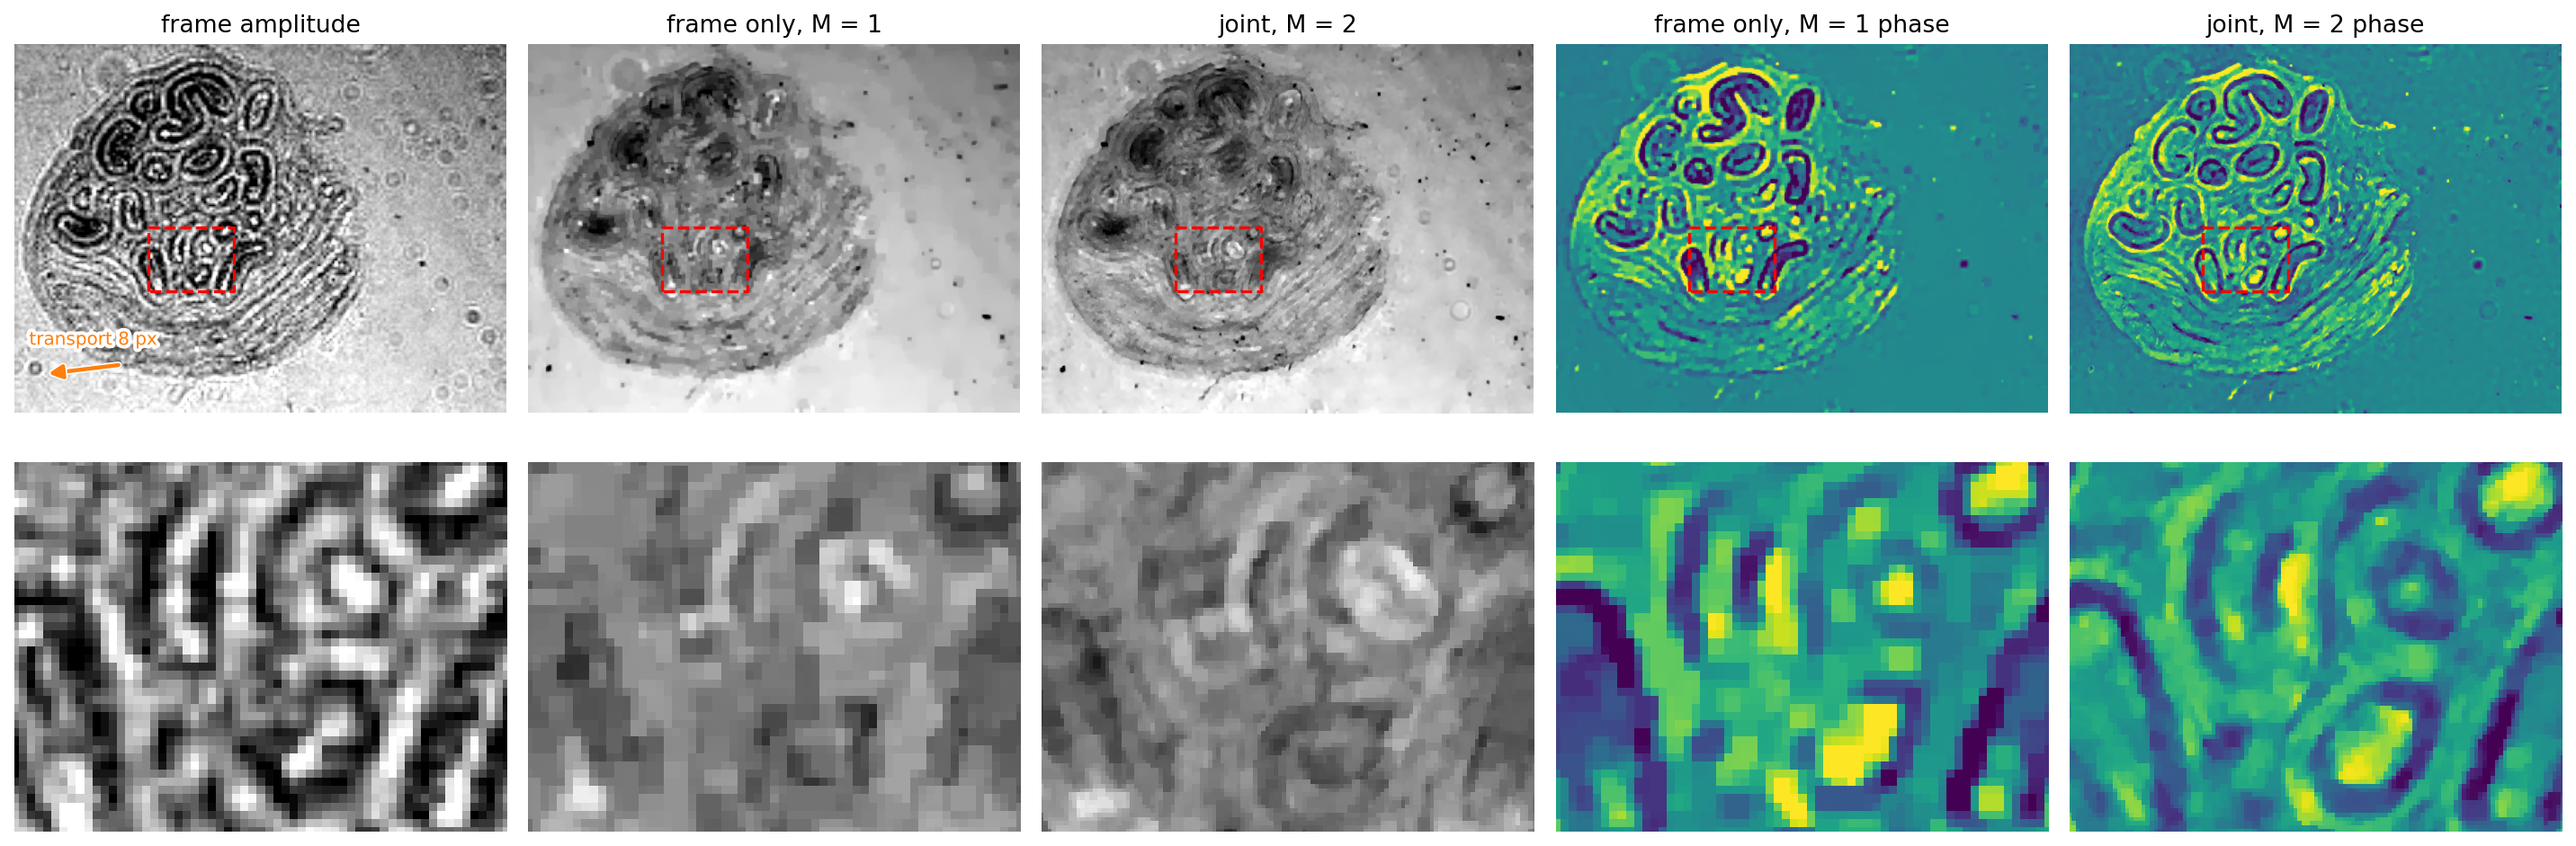
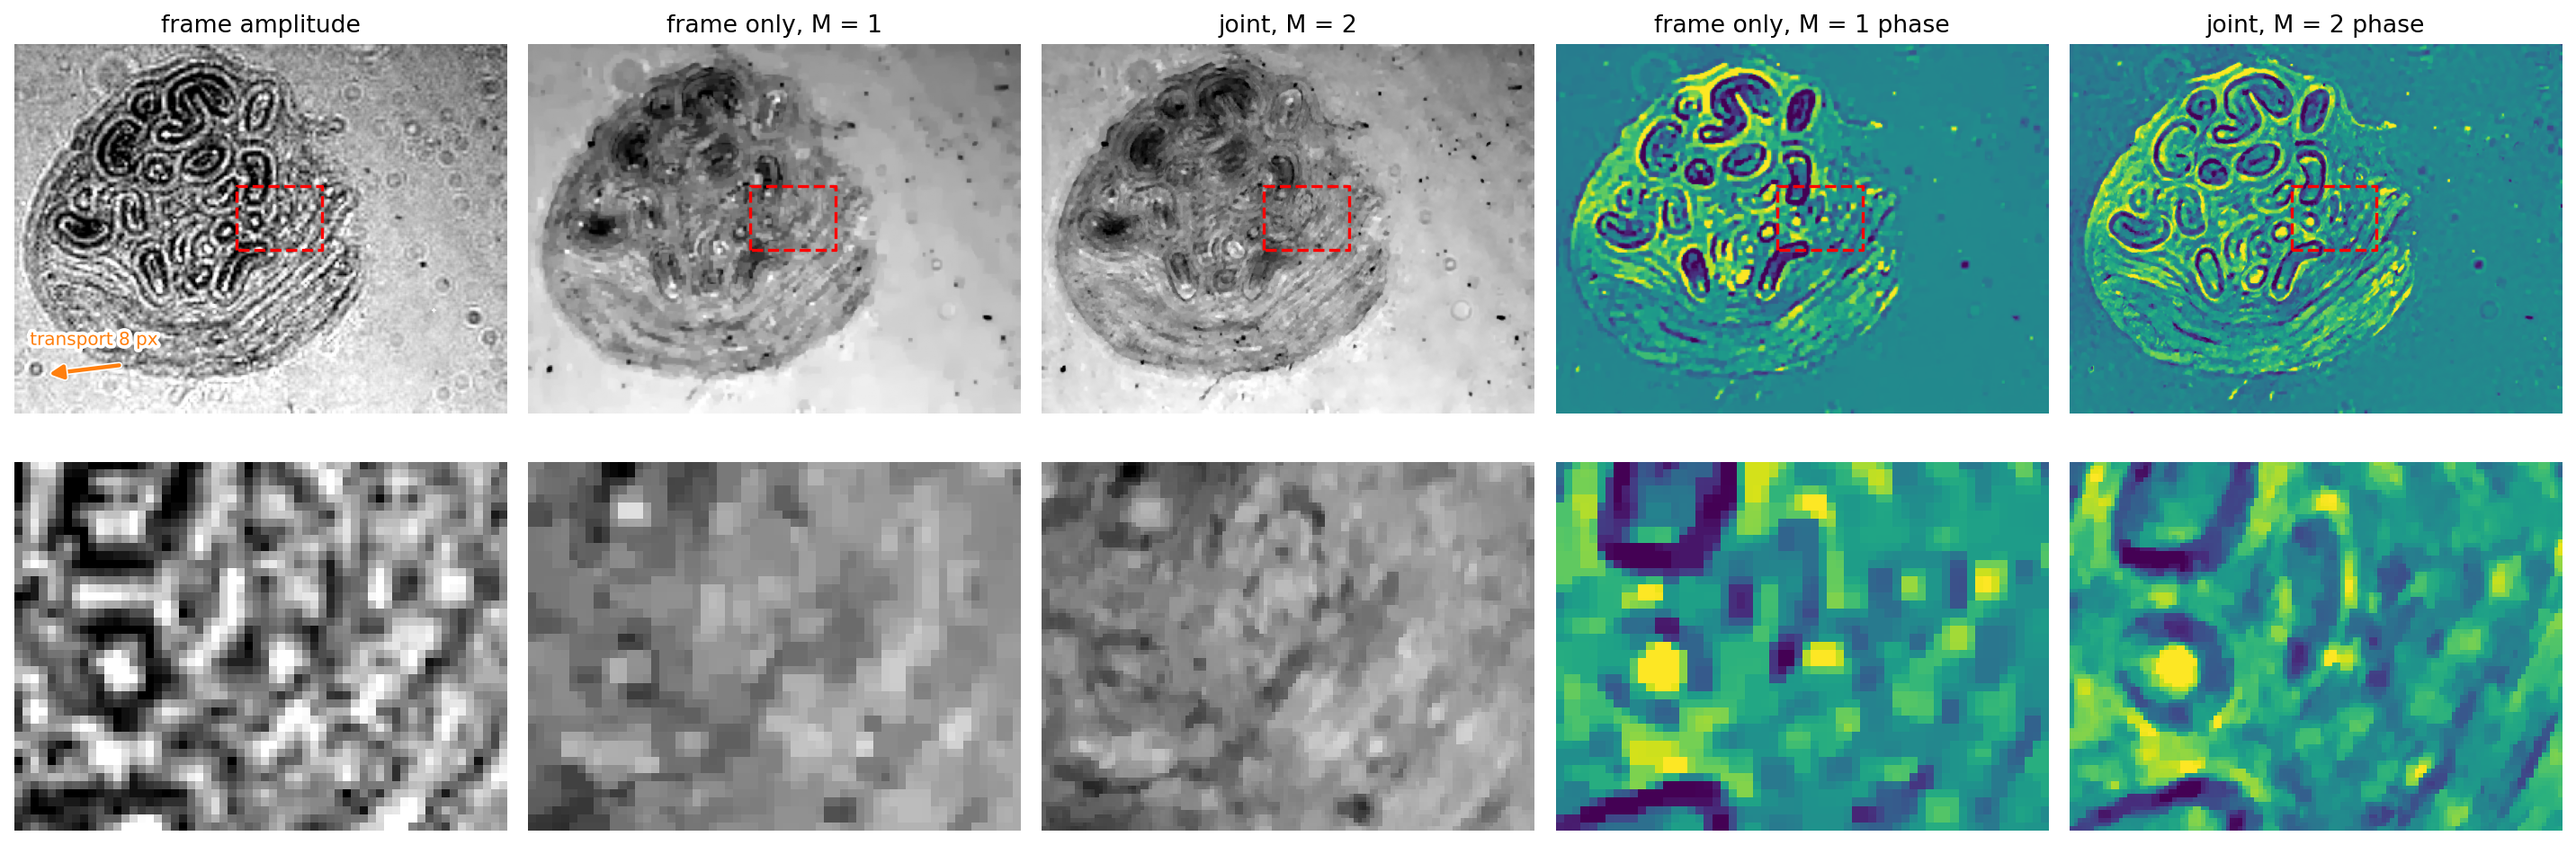
Refine event-driven figure zooms and handle small sensors
Align plot bounds across sampling scales, publish the event-driven zoom figures and cover small-image output with regression checks. Describe the processed-IWE display score precisely.

diff --git a/src/neurosr/visualize.py b/src/neurosr/visualize.py
@@ -116,24 +116,31 @@ def show_iwe_panels(solver, roi_zoom):
     return fig
 
 
-def auto_roi(img_lr, hw, hh, band=(0.25, 0.5), margin=6):
-    """Window carrying the most energy in the top octave below the sensor Nyquist, as
-    [[x0, x1], [y1, y0]] in native pixels, and its centre.  The zoom is placed by this rule,
-    not by hand."""
-    X = np.fft.fft2(img_lr - img_lr.mean())
-    fr = np.maximum(np.abs(np.fft.fftfreq(img_lr.shape[0]))[:, None], np.abs(np.fft.fftfreq(img_lr.shape[1]))[None, :])
-    e = np.abs(np.fft.ifft2(X * ((fr > band[0]) & (fr <= band[1])))) ** 2
+def auto_roi(iwe, M, width=60, margin=1):
+    """Zoom window selected by high-frequency energy, as [[x0, x1], [y1, y0]] in
+    native pixels: width native pixels wide, with the aspect ratio of the sensor.
+
+    iwe is the signed image of warped events on the grid M times finer than the sensor.  Its
+    magnitude is compressed by a square root, so that the density of fine edges counts and not
+    the contrast of a few strong ones.  The energy above the sensor Nyquist frequency (the top
+    octave of the grid at M = 1) is then summed over every window of whole native pixels, and
+    the window with the largest sum is taken.  Width and margin shrink to fit smaller sensors.
+    This score selects a display region from the processed IWE."""
+    compressed = np.sign(iwe) * np.sqrt(np.abs(iwe))
+    spectrum = np.fft.fft2(compressed - compressed.mean())
+    fr = np.maximum(np.abs(np.fft.fftfreq(iwe.shape[0]))[:, None], np.abs(np.fft.fftfreq(iwe.shape[1]))[None, :])
+    e = np.abs(np.fft.ifft2(spectrum * (fr > 0.5 / max(M, 2)))) ** 2
+    e = e.reshape(e.shape[0] // M, M, e.shape[1] // M, M).sum((1, 3))
+    margin = min(margin, (min(e.shape) - 1) // 2)
+    width = min(width, e.shape[1] - 2 * margin)
+    height = max(1, min(int(round(width * e.shape[0] / e.shape[1])), e.shape[0] - 2 * margin))
     C = np.zeros((e.shape[0] + 1, e.shape[1] + 1))
     C[1:, 1:] = e.cumsum(0).cumsum(1)
-    ws, hs = int(round(2 * hw)), int(round(2 * hh))
-    best = (-np.inf, margin, margin)
-    for y0 in range(margin, e.shape[0] - hs - margin + 1):
-        for x0 in range(margin, e.shape[1] - ws - margin + 1):
-            v = C[y0 + hs, x0 + ws] - C[y0, x0 + ws] - C[y0 + hs, x0] + C[y0, x0]
-            if v > best[0]:
-                best = (v, x0, y0)
-    cx, cy = best[1] + ws / 2.0, best[2] + hs / 2.0
-    return np.asarray([[cx - hw, cx + hw], [cy + hh, cy - hh]]), (cx, cy)
+    sums = C[height:, width:] - C[:-height, width:] - C[height:, :-width] + C[:-height, :-width]
+    sums = sums[margin:sums.shape[0] - margin, margin:sums.shape[1] - margin]
+    y0, x0 = np.unravel_index(np.argmax(sums), sums.shape)
+    x0, y0 = int(x0) + margin, int(y0) + margin
+    return np.asarray([[x0, x0 + width], [y0 + height, y0]])
 
 
 def _relative_phase(field):
@@ -146,7 +153,7 @@ def save_summary(solver, out):
     import matplotlib.pyplot as plt
     M = solver.sr_magnification
     sensor = solver.event.sensor
-    roi_zoom, _ = auto_roi(np.abs(solver.target_m1.sum(0).cpu().numpy()), 30, 30 * sensor[0] / sensor[1], margin=1)
+    roi_zoom = auto_roi(solver.target_sr.sum(0).cpu().numpy(), M)
     fig = show_panels([(np.sqrt(solver.I_lr.cpu().numpy()), 1, "frame amplitude", False),
                        (solver.backpropagated.abs().cpu().numpy(), 1, "back-propagated", False),
                        (solver.object_m1.abs().cpu().numpy(), 1, "M = 1", False),
@@ -167,8 +174,7 @@ def save_joint_figures(out, arrays, scale):
     import matplotlib.pyplot as plt
     sensor = arrays["frame"].shape
     iwe = [(arrays[key] * arrays["iwe_support"]).sum(0) for key in ("iwe_measured", "iwe_predicted", "iwe_residual")]
-    native_iwe = np.abs(iwe[0]).reshape(sensor[0], scale, sensor[1], scale).mean((1, 3))
-    roi_zoom, _ = auto_roi(native_iwe, 30, 30 * sensor[0] / sensor[1], margin=1)
+    roi_zoom = auto_roi(iwe[0], scale)
     if "object_sr" in arrays:
         native, fine = arrays["object_m1"], arrays["object_sr"]
         panels = [(np.sqrt(arrays["frame"]), 1, "frame amplitude", False),

diff --git a/tests/test_figures.py b/tests/test_figures.py
@@ -1,0 +1,46 @@
+"""Where the zoom of a figure falls, and that panels at different M show the same pixels."""
+import matplotlib
+
+matplotlib.use("Agg")
+import matplotlib.pyplot as plt
+import numpy as np
+import pytest
+
+from neurosr.ops import plot_ax_roi_norm
+from neurosr.visualize import auto_roi
+
+
+def test_zoom_prefers_dense_fine_structure_to_a_strong_coarse_edge():
+    M, height, width = 2, 120, 160
+    rows, columns = np.mgrid[:height * M, :width * M]
+    iwe = np.zeros((height * M, width * M))
+    # Strong bars eight native pixels wide on the left, weak bars half a native pixel wide on the
+    # right.  Without the square root the strong bars carry more energy above the sensor Nyquist.
+    coarse = (rows < 60 * M) & (columns < 60 * M)
+    fine = (rows >= 50 * M) & (rows < 100 * M) & (columns >= 90 * M) & (columns < 150 * M)
+    iwe[coarse] = np.where((columns[coarse] // (8 * M)) % 2 == 0, 8.0, -8.0)
+    iwe[fine] = np.where(columns[fine] % 2 == 0, 1.0, -1.0)
+    (x0, x1), (y1, y0) = auto_roi(iwe, M)
+    assert (x1 - x0, y1 - y0) == (60, 45)
+    assert 90 <= x0 and x1 <= 150 and 50 <= y0 and y1 <= 100
+
+
+def test_panels_at_different_sampling_show_the_same_native_pixels():
+    roi = np.asarray([[10, 70], [55, 10]])
+    figure, axes = plt.subplots(1, 2)
+    for axis, M in zip(axes, (1, 3)):
+        plot_ax_roi_norm(axis, np.zeros((260 * M, 346 * M)), roi=roi, M=M)
+        left, right = axis.get_xlim()
+        bottom, top = axis.get_ylim()
+        # Pixel k of an image is drawn from k - 0.5 to k + 0.5.
+        assert (left + 0.5, right + 0.5) == (10 * M, 70 * M)
+        assert (top + 0.5, bottom + 0.5) == (10 * M, 55 * M)
+    plt.close(figure)
+
+
+@pytest.mark.parametrize("sensor", [(24, 32), (2, 2), (200, 20), (20, 200)])
+def test_zoom_fits_images_smaller_than_the_default_window(sensor):
+    M = 2
+    (x0, x1), (y1, y0) = auto_roi(np.ones((sensor[0] * M, sensor[1] * M)), M)
+    assert 0 <= x0 < x1 <= sensor[1]
+    assert 0 <= y0 < y1 <= sensor[0]

diff --git a/src/neurosr/ops.py b/src/neurosr/ops.py
@@ -276,20 +276,23 @@ def lin_log(x, threshold=1+1e-6):
 
 
 def plot_ax_roi_norm(ax, img, cmap="gray", axis_ind="off", roi=None, M=1, _norm=None):
-    """Show img restricted to roi = [[x0, x1], [y_bottom, y_top]], given in native pixels."""
+    """Show img restricted to roi = [[x0, x1], [y_bottom, y_top]], given in native pixels.
+
+    Native pixel k spans k to k + 1 and covers M x M pixels of an image at M times the native
+    sampling, so panels at different M show the same region."""
     cax = ax.imshow(img, cmap=cmap, norm=_norm)
     if roi is None:
-        roi = [[0, img.shape[1]], [img.shape[0], 0]]
-    ax.set_xlim(np.asarray(roi[0] * M))
-    ax.set_ylim(np.asarray(roi[1] * M))
+        roi = [[0, img.shape[1] / M], [img.shape[0] / M, 0]]
+    ax.set_xlim(np.asarray(roi[0]) * M - 0.5)
+    ax.set_ylim(np.asarray(roi[1]) * M - 0.5)
     ax.axis(axis_ind)
     return cax
 
 
 def add_roi(ax, roi, M=1, color='red'):
     """Outline roi (native pixels) on an image shown at M times the native sampling."""
-    roi_x = np.asarray(roi[0]) * M
-    roi_y = np.asarray(roi[1]) * M
+    roi_x = np.asarray(roi[0]) * M - 0.5
+    roi_y = np.asarray(roi[1]) * M - 0.5
     ax.plot([roi_x[0], roi_x[0], roi_x[1], roi_x[1], roi_x[0]],
             [roi_y[0], roi_y[1], roi_y[1], roi_y[0], roi_y[0]],
             color=color, linestyle='--', linewidth=1.5)

diff --git a/README.md b/README.md
@@ -145,9 +145,11 @@ Limits to keep in mind:
 - The gain in resolution is along the transport. Across it, the result follows the frame and the
   regularizer. The transport of the three examples is 24 px mostly along x, 8 px along x, and
   9 px mostly along y.
-- The zoom box of every figure is placed by a rule and not by hand: it is the window whose event
-  image carries the most energy in the top octave below the sensor Nyquist frequency, which is
-  where the events contribute most.
+- The zoom box of every figure is placed by a rule and not by hand: it is the window in which the
+  event image at M carries the most energy above the sensor Nyquist frequency, after a square
+  root of its magnitude so that the density of fine edges counts and not the contrast of a few
+  strong ones. This score selects a display region from the processed IWE. Every panel of a
+  figure shows the same native pixels.
 
 The release does not contain the comparison methods, the pipelines for the relay, rotation,
 macroscopic and wafer-scanning recordings, or the scripts that drew the figures of the paper. The
@@ -175,7 +177,8 @@ source_data/    the numerical values behind the graphs of the paper
 *`usaf_veryclose` (`summary.png`). A 1951 USAF target in lensless inline holography at 632.8 nm.
 From the left: hologram amplitude, its back-propagation at the autofocus distance, the frame-only
 field at M = 1, the joint field at M = 2 in amplitude and in phase (radians, relative to the mean
-field), and the IWE at M = 2.*
+field), and the IWE at M = 2. The zoom falls on groups 4 and 5 of the target. The lines of group 4
+are 31 to 17.5 µm wide, against a pixel pitch of 18.5 µm.*
 
 <p align="center"><img src="docs/figures/testis.png" alt="Testis tissue: hologram, frame-only field and joint field" width="980"></p>
 
